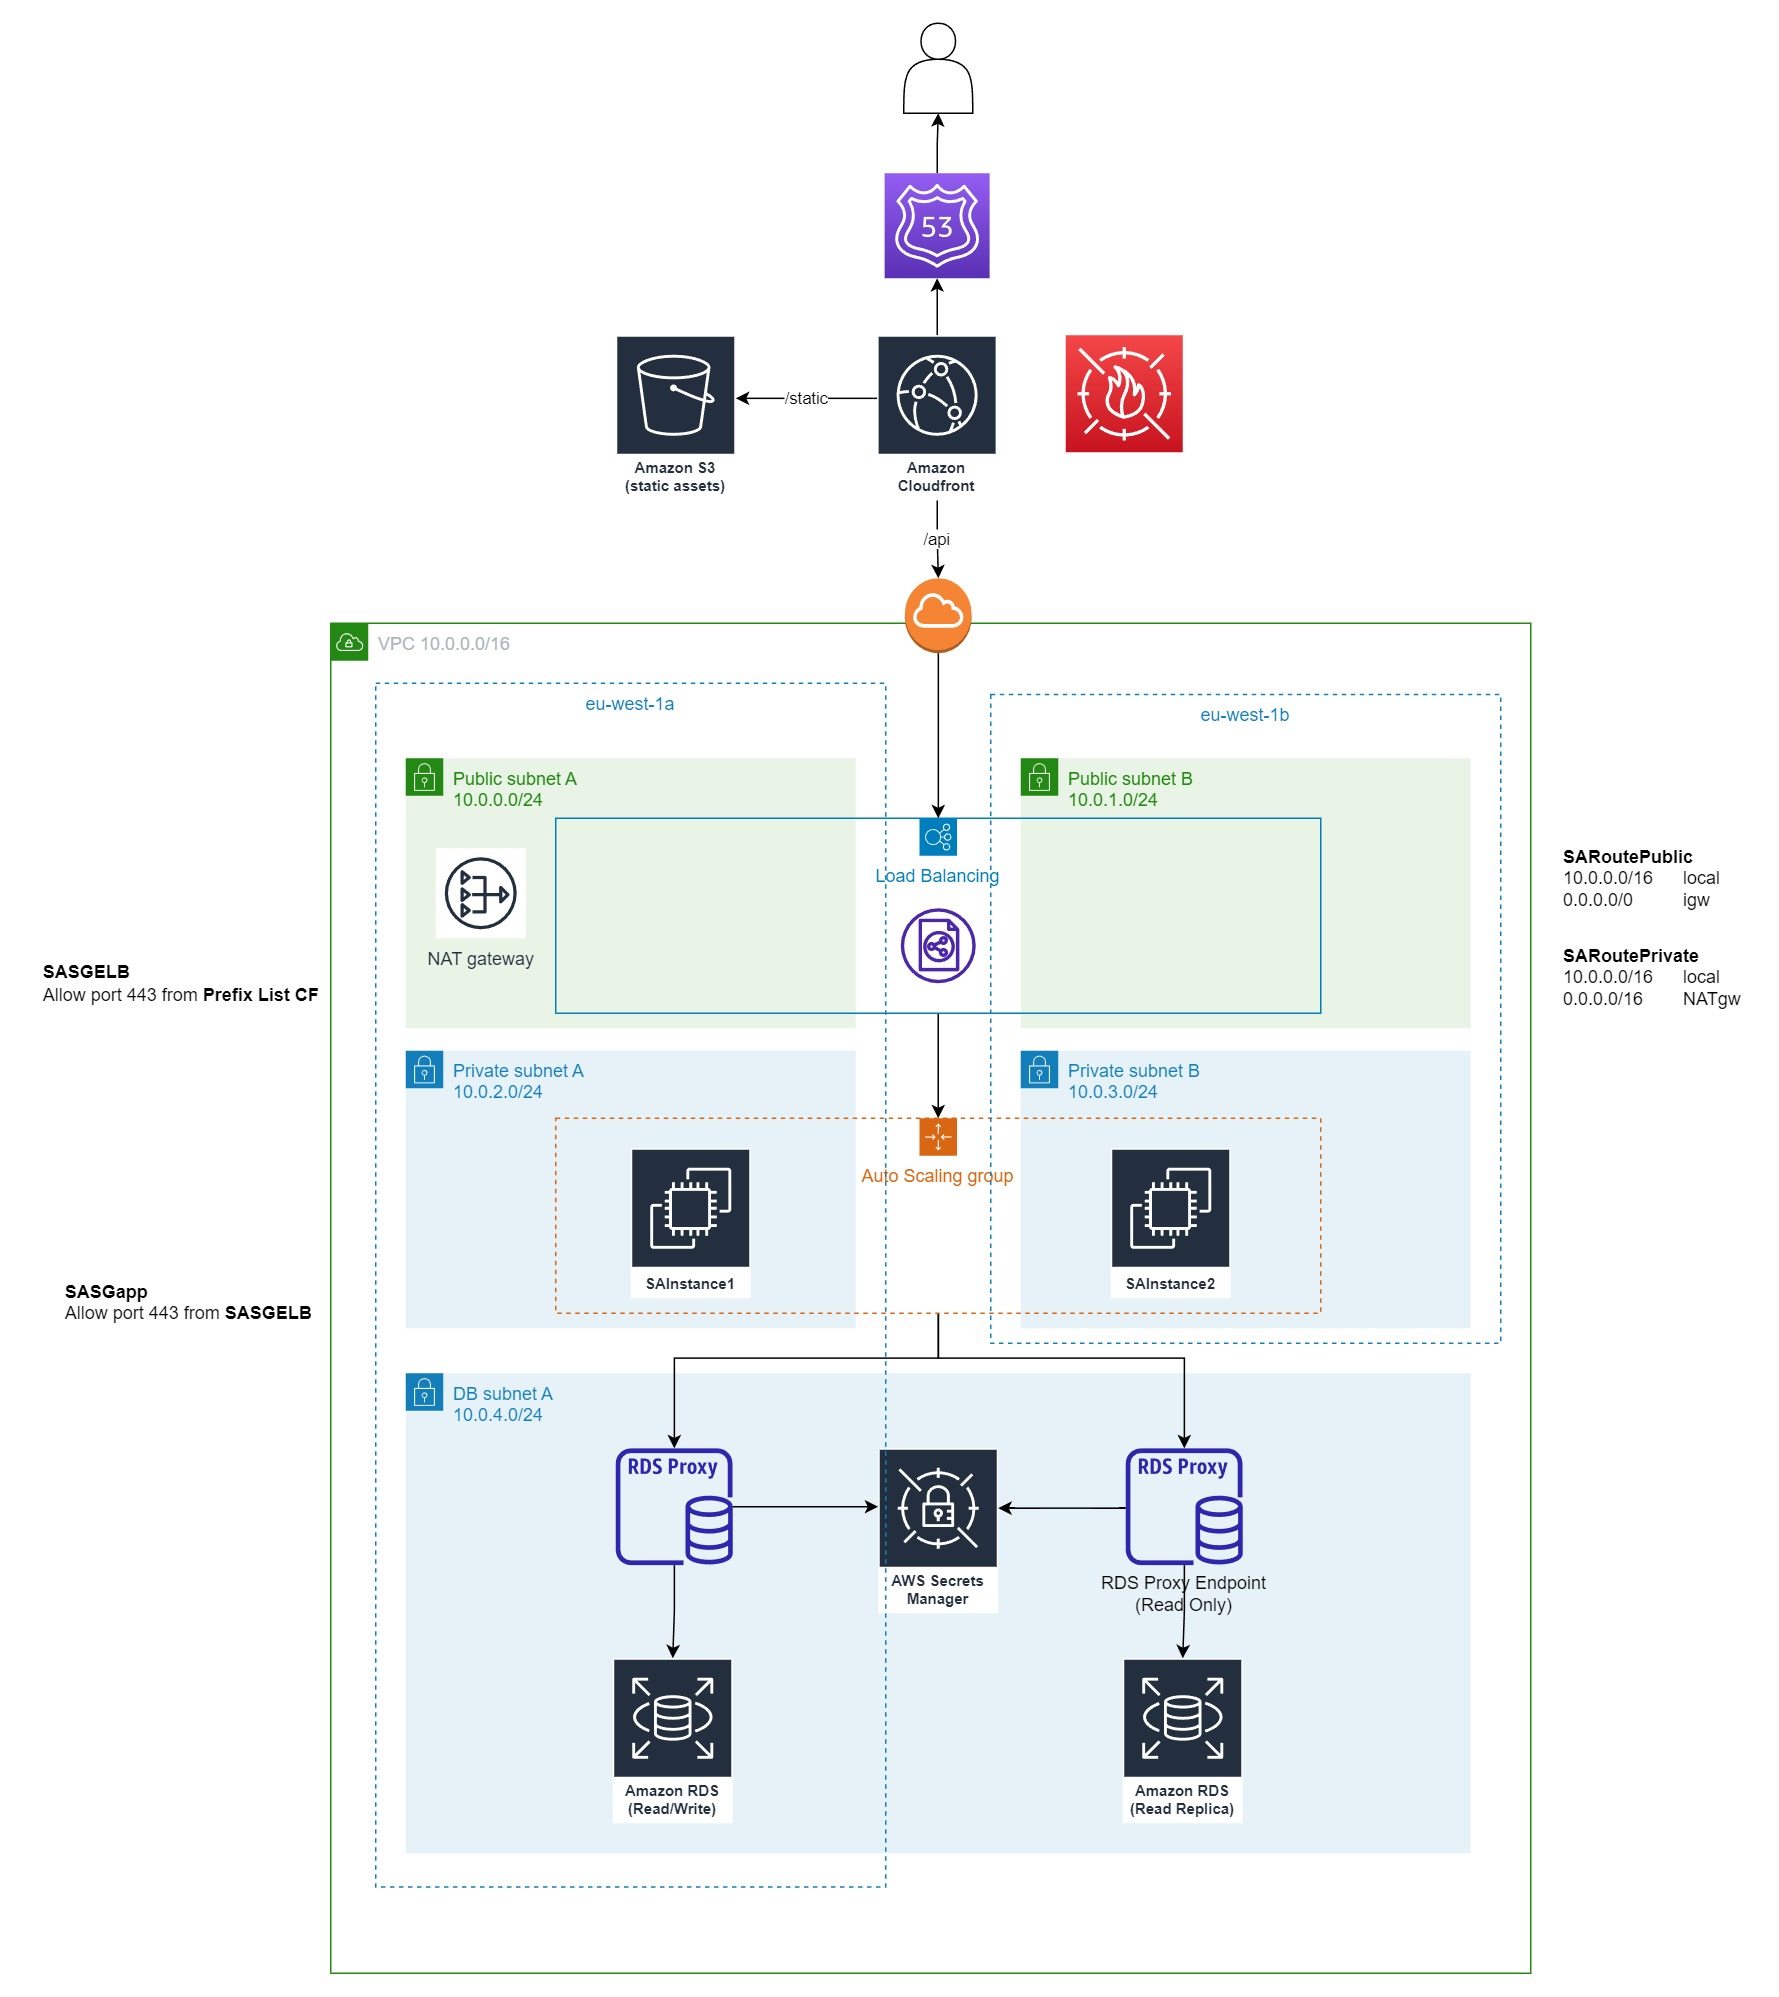
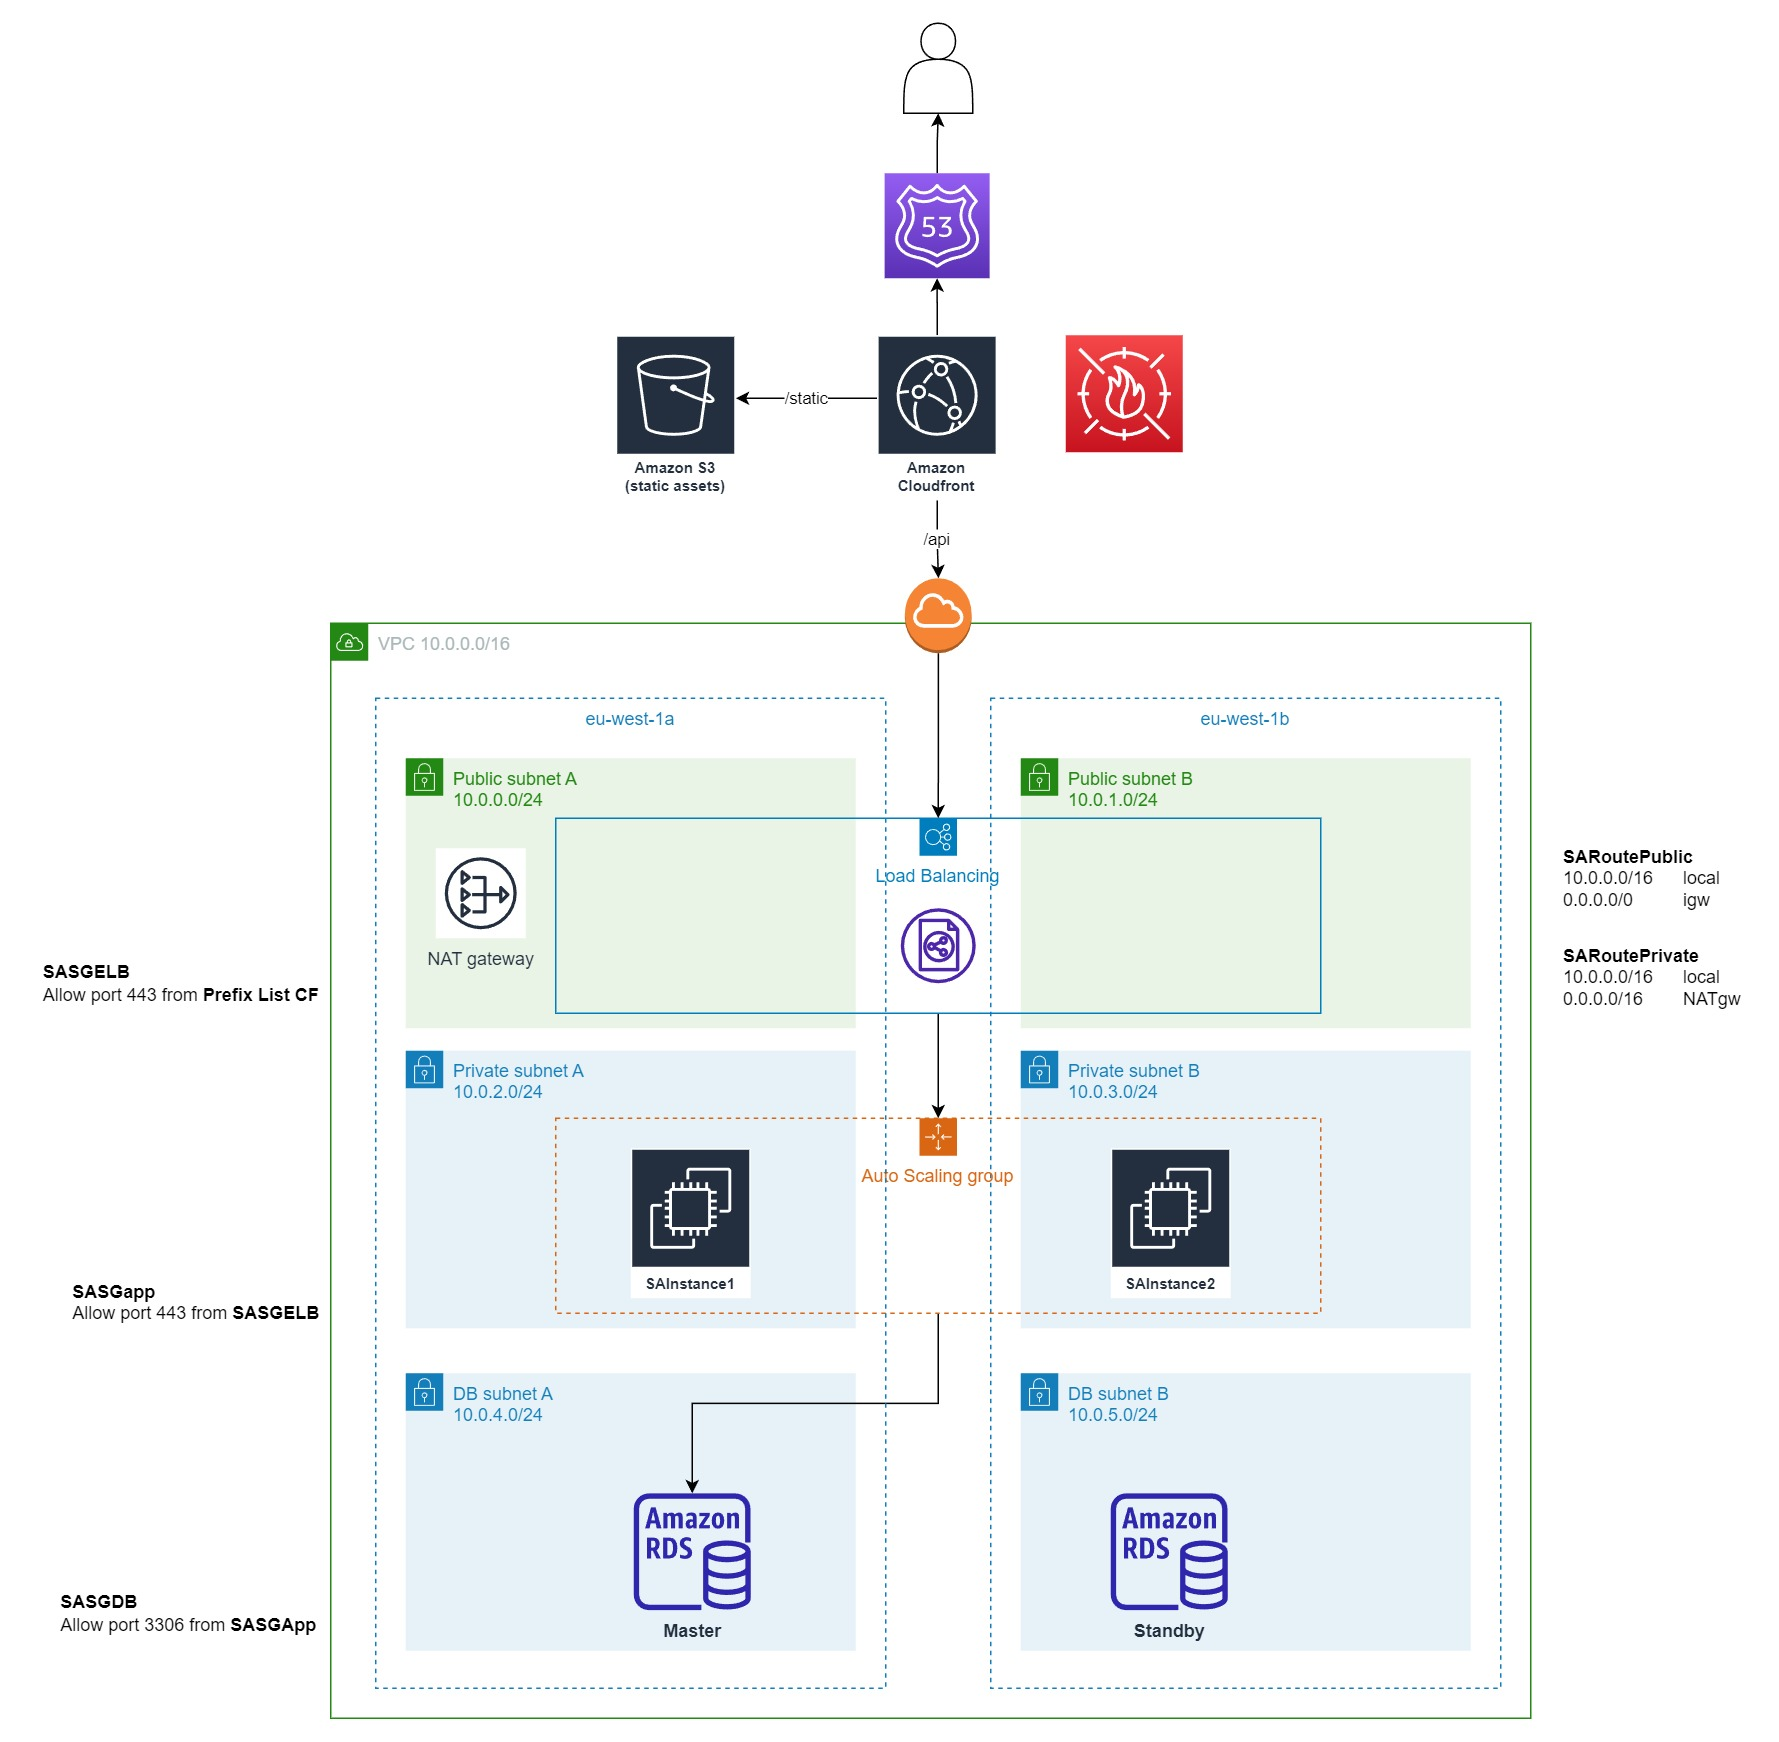
Add Q3

diff --git a/Readme.md b/Readme.md
@@ -30,7 +30,7 @@ My customer has no concrete AWS knowledge background and is encountering an issu
 - [Original Cloud Formation](AWS-SA-CloudFormation-v20190724.yaml)
 - [Operational Cloud Formation](SA-Assignment-Thanet-Sirichanyaphong.yaml.yaml)
 
-![Q1 comparison](Assets/SA_Assignment_Compare_Init_vs_Q1.jpg)
+![Q1 comparison](Assets/SA_Assignment-Compare-Q1.jpg)
 
 ``` diff
 @@ -148,12 +148,34 @@ Resources:
@@ -137,7 +137,7 @@ aws cloudformation validate-template --template-body file://$filepath
 4. For initiation step to set up the instance, sometimes it need to access internet to download some package dependencies. So I need to add **NAT gateway** to allows EC2 instances in private subnet to establish outbound connections to internet without allowing inbound connections to the EC2 instance directly.
 5. I also added **Auto Scaling Group** with minimun 1 instance to improve availability and reliability. Since it will ensure the minimum number of instances to serve your service and also help increase/decrease the instance if your traffic is over/lower the threshold.
 6. Same suggestion for database layer, private subnet and Security Group will help ensure the security. If the customer want to go with SQL database due to transaction guarantee, high consistency and strict schema design, I will recommend AWS RDS with one standby database to help instantly recover when the active one is down.
-
+7. For cost optimization, as we known many AWS service is pay-as-you-go which mean you only pay for what you use. For example Route53 will only charge for how much number of query. Plus, uses will be only query DNS once per session. Auto Scaling Group can also lower your bills by automatically scales up/down based on the load.
 
 ## C. Long term solution
 
@@ -145,7 +145,12 @@ aws cloudformation validate-template --template-body file://$filepath
 ![Q2 Architecture](Assets/SA_Assignment-Q3.jpg)
 
 ### Explanation
-1. 
+1. For long term solution, the scale of application should be increase by having more user access to the service. In order to guarantee the performance, I suggested to use **CloudFront** a content delivery network(CDN).
+2. A CDN can help improve the performance by caching all static contents over edge location across the worlds and serving the content more quickly and efficiently.
+3. To efficiently manage the storage and CDN, moving all static contents to S3 will help reduce your cost and CDN can serve the content better.
+4. I also integrate **Web Application Firewall** (WAF) with CloudFront to improve the security by filtering malicious traffic, especially to protect against OWSAP Top 10.
+5. To reinforcethe security, we only setup **Security Group** for ALB only allow prefix list IP from CloudFront to ensure all incoming traffic to ALB only from CloudFront.
+6. From ALB to our logic application also implement secure session to increase security by encrypting the communication.
 
 # References
 - [Troubleshooting instances connecting issue](https://docs.aws.amazon.com/AWSEC2/latest/UserGuide/TroubleshootingInstancesConnecting.html#TroubleshootingInstancesCommonCauses)
